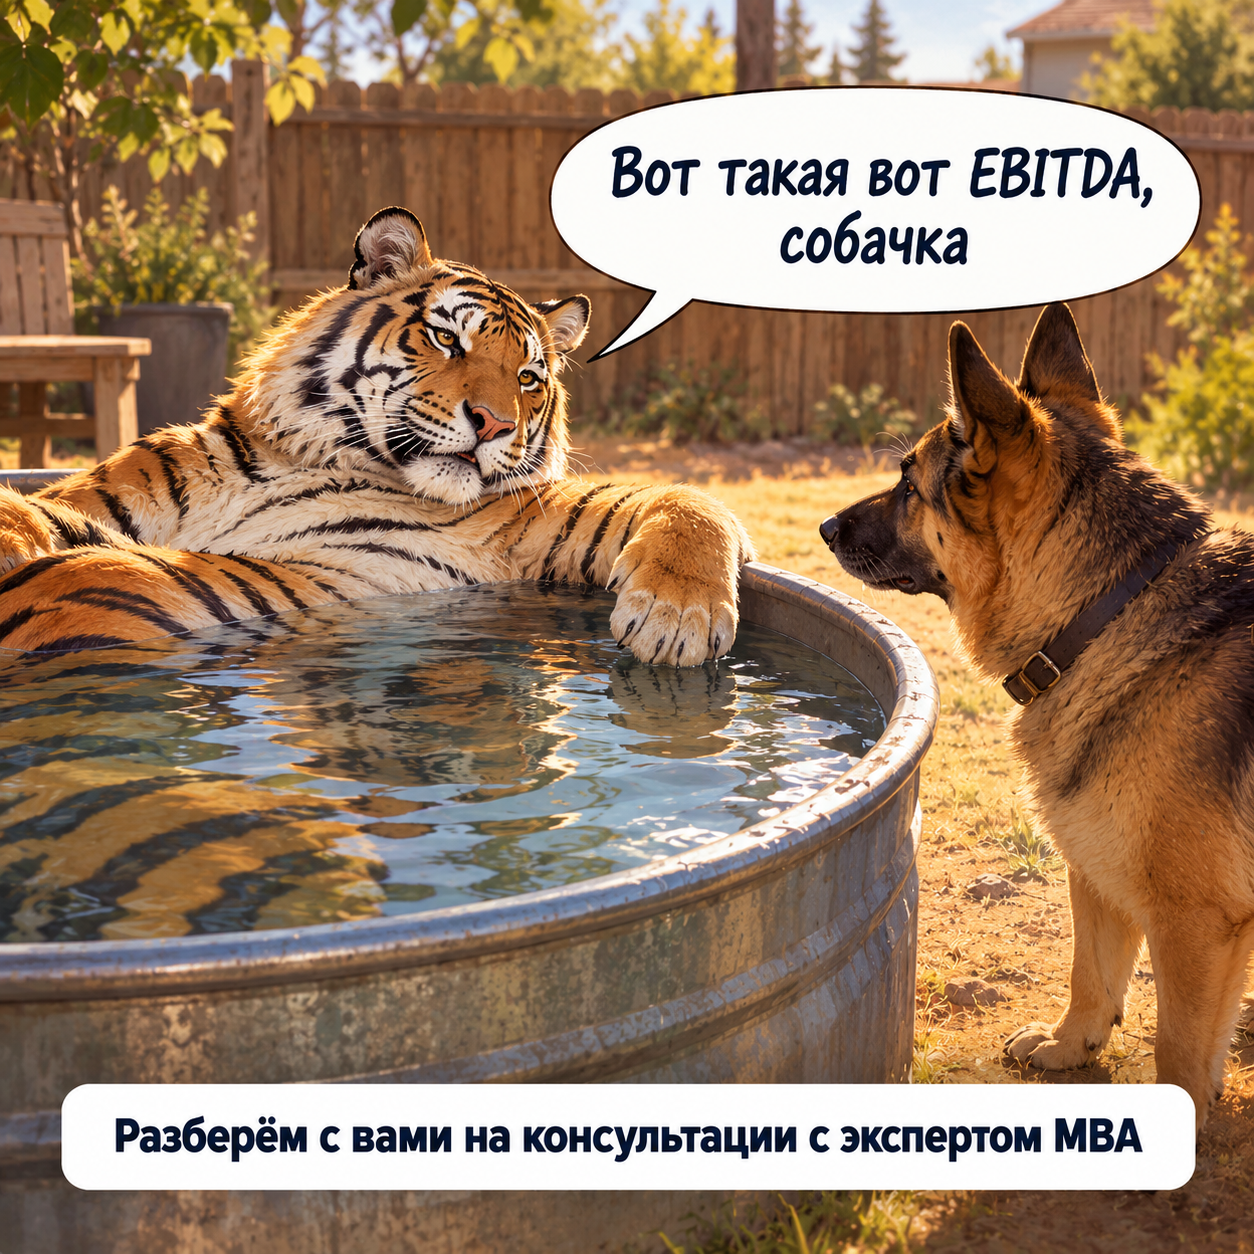
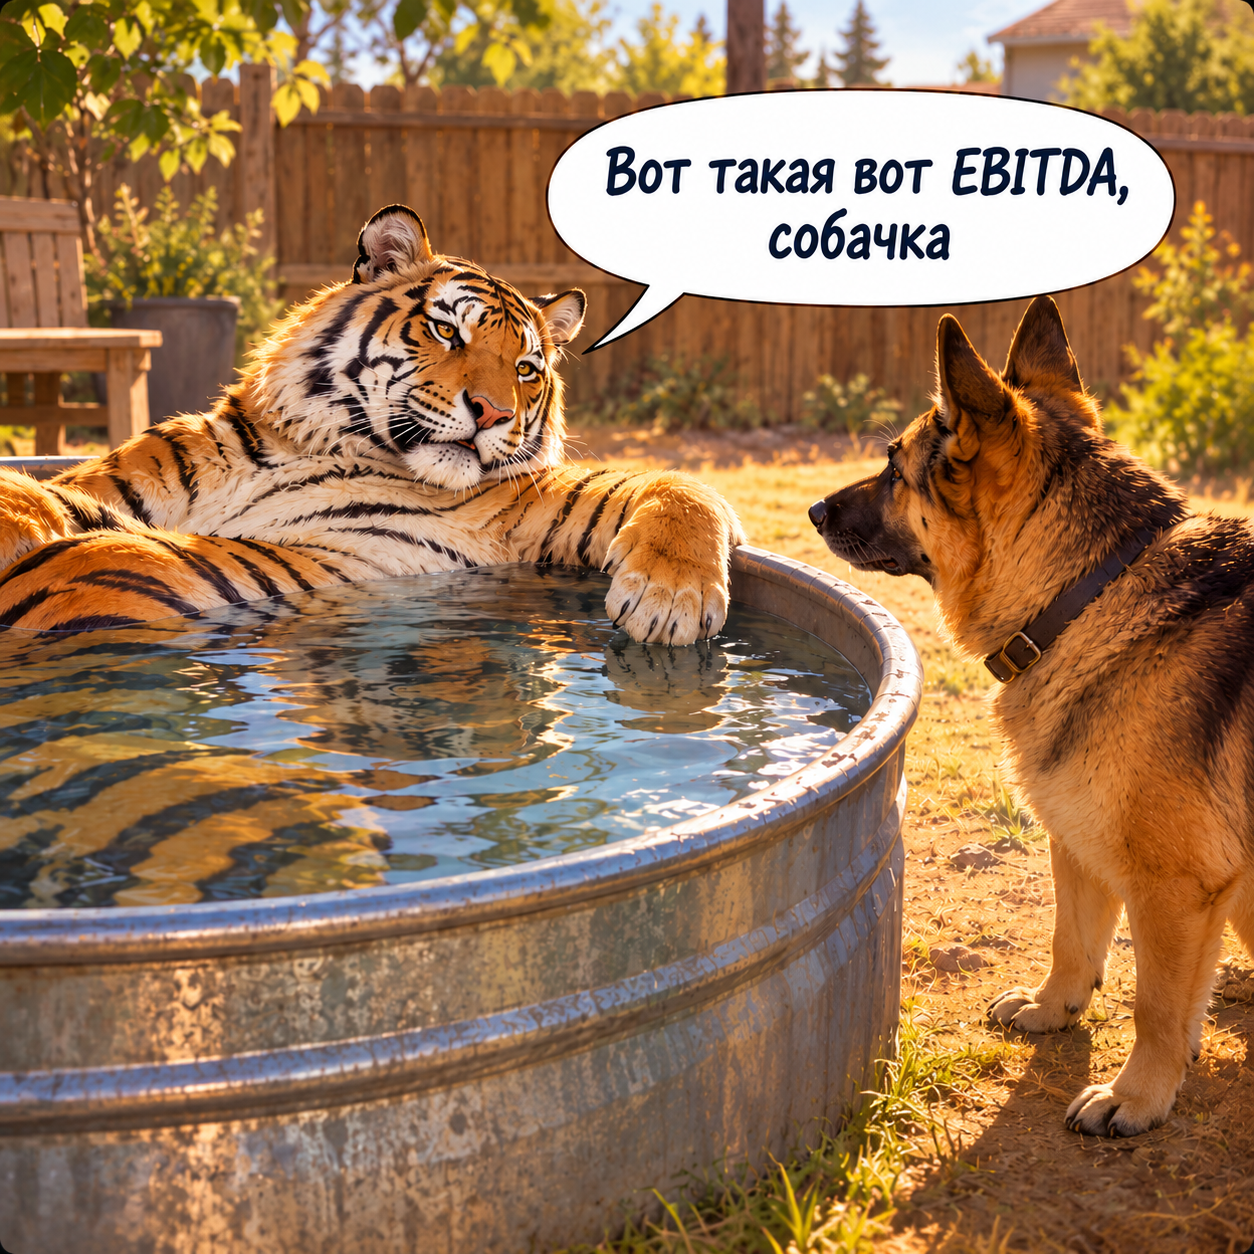
Крео: скетч про генерального, новый тигр

diff --git a/offers.html b/offers.html
@@ -126,7 +126,7 @@ mark{background:#f5d94e66;border-bottom:1px dashed #b39b00;padding:0 3px;color:i
   <p class="seg">Разговор наверх и финансы уровня первого лица.</p>
 </div>
 
-<div class="ofr">
+<div class="ofr" data-creo="creo/ceo-inside-or-outside.png" data-ttl="Кого позовут на место генерального — вас или человека со стороны?">
   <div class="n">04</div>
   <h3>Кого позовут на место генерального — вас или человека со стороны?</h3>
   <p>За 6 ситуаций увидите, чего вам не хватает, чтобы позвали вас: по компетенциям и по связям на рынке.</p>
